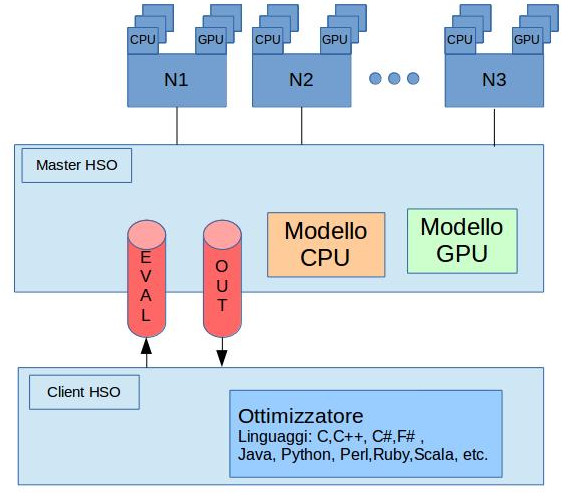
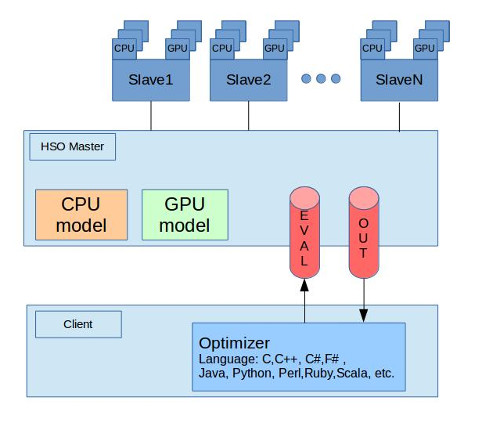
Update README

diff --git a/README.md b/README.md
@@ -1,36 +1,77 @@
 # Heterogeneous Simulation Optimization (HSO)
 
-Le simulazioni vengono utilizzate per modellare ed analizzare dei comportamenti complessi, tali comportamenti si traducono in un modello matematico governato da un insieme parametri.
-A seconda del valore che diamo a questi parametri il modello avrà una certa soluzione, solitamente quello che si vuole è trovare dei parametri che rendano la soluzione _ammissibile_ e quanto più vicina all'_ottimo_.
-
-La tecnica di Simulation Optimizzation ci permette di trovare questi parametri migliori senza esplorare tutto lo spazio dei parametri, ed ha come scopo quello di andare a minimizzare l'utilizzo delle risorse spese andando a massimizzare le informazioni ricavate dalle simulazioni.
-
-**Heterogeneous Simulation Optimizzation (HSO)** è:
-
-* Sviluppato per Simulation Optimizzation.
-* Scritto in C.
-* Piattforma supportata: Linux
-
-HSO supporta l'Heterogeneous computing, cioè sfrutta gli acceleratori disponibili per poter eseguire le simulazioni in maniera efficiente.
-
-Un'altra caratteristica interessante di HSO è quella di poter utilizzare funzioni di ottimizzazione scritte in diversi linguaggi di programmazione tra cui (Python, Java, etc) grazie all'utilizzo della libreria ZeroMQ. 
-
-## Architettura HSO
-
-![Architettura HSO](./assets/architettura.jpg)
-
-La figura mostra i componenti fondamentali di **HSO**.
+The simulation are used to model and analyze complex behaviors. These behaviors are translated into a mathematical model governed by a set of parameters.  
+Usually, we want find some parameters that make the solution of the model admissible and close to the best.
+Simulation optimization is the process of finding the best input variable values from among all possibilities without explicitly evaluating each possibility. This process optimization aims to minimize the resources spent while maximizing the information obtained in a simulation experiment.
 
 
-Il Master HSO non appena viene lanciato fa partire una fase di discovery delle risorse per trovare gli acceleratori disponibili. Una volta riecvute tali informazioni attende dei messaggi da parte della funzione di ottimizzazione.
+**Heterogeneous Simulation Optimization (HSO)** is:
 
+* Developed for Simulation Optimization.
+* Written in C, and use the MPI Library.
+* Supported platform: Linux.
 
-Come si vede dall'immagine la funzione di ottimizzazione comunica con il master HSO attraverso due code (EVAL e OUT), che sono essenzialmente dei socket zeroMQ su cui vengono inviate delle stringhe. Tali stringhe possono essere:
+HSO supports the Heterogeneous Computing, that is exploit the available computational accelerators for run the simulations in the better way.
 
-* stringhe di controllo, usate per settare l'ambiente di esecuzione delle simulazioni 
-* stringhe contenenti la lista dei parameti su cui eseguire le simulazioni
-* stringhe contenti il risultato della computazione
+Another interesting feature of HSO is that you can use optimization function written in different programming language (C, C++, C#, Python, Java, etc.) using the [ZeroMQ](http://www.zeromq.org/) Library.
 
->Le prime due tipologie di stringhe vengono inviate sul socket EVAL dalla funzione di ottimizzazione e utilizzate dal master HSO, mentre l'ultima tipologia di stringhe viene inviata sul socket OUT dal master HSO e utilizzata dalla funzione di ottimizzazione
+## HSO structure
 
-Il master HSO dopo aver ricevuto dopo aver ricevuto le stringhe di controllo ed aver comunicato tali stringhe a tutti i suoi slave, attende la lista dei parametri su cui eseguire le simulazioni. Una volta ottenuta questa lista fa partire la computazione distribuendola sugli slave. Una volta terminata la computazione, il risultato di quest'ultima viene inviato alla funzione di ottimizzazione, che effettuerà le sue considerazioni sull'output ricevuto e a seconda di quest'ultime o terminerà o invierà al master HSO una nuova lista di parametri. 
+<center>![HSO structure](./assets/architettura.jpg)</center>
+
+The figure illustrates the main components of **HSO**. We can see that the optimizer is connected to the HSO master through two queues, which are essentially two ZeroMQ socket. Strings are sent on these sockets, these strings can be of three types:
+
+* Control strings, used to set the simulation execution environment.
+* Strings containing the list of parameters to run the simulations.
+* Strings containing the result of the simulations.
+
+> The first two types of string are sent on the EVAL socket from the optimization function to the HSO Master, while the last type is sent on the OUT socket form the HSO Master to the optimization function
+
+### HSO workflow
+
+In the initialization phase, the coordinated execution between the HSO Master (and Slaves) and  the Optimization function follows this pattern:
+
+1. When the HSO Master starts, it waits for the Slaves to send the number of CPUs and Computational Accelerators available (for the moment we consider only the GPUs).
+2. The Slave sent this information and wait for simulation model informations from the HSO Master.
+3. The HSO Master waits for the Optimization function to send strings.
+4. When the Optimization function starts, send to the Master the address of OUT socket, the CPU model and the GPU model.
+5. The HSO master sets the simulation execution environment, sends the information received to the slaves, and waits the list of parameters from the Optimization function.
+6. The Slave sets the CPU model and the GPU model and waits for the parameters of simulations from HSO master.
+
+<center>![Scambio messaggi fase iniziale](./assets/HSO_init.png)</center>
+
+After the initialization phase, the coordinated execution between the HSO Master (and Slaves) and  the Optimization function follows this pattern:
+
+1. The Optimization function send the list of parameters to the Master HSO.
+2. The HSO Master, received the list, divides it and starts running the simulations by distributing them to themselves and to the slaves. After finishing his computation part waits for the slave result.
+3. The Slave, received the list of parameters, starts running the simulations. After finishing his simulations send the result to the HSO Master. 
+4. The HSO Master collects the slave's output, concatenates his, and sends everything to the Optimization function.
+5. The optimization function, received the output, makes its own consideration and decides whether to terminate or send a new parameter list.
+6. After finishing the computation for an Optimization function,the HSO Master waits for a new Optimization function to be launched, and the process just described will start again
+
+<center>![scambio messaggi computazione](./assets/HSO_com.png)</center>
+
+## HSO installation and usage
+
+Before installing make sure you have the following requirements:
+
+* autoreconf 2.69 or higher 
+* MPI
+* ZeroMQ, for installation guide see [ZeroMQ - Get the software](http://zeromq.org/intro:get-the-software)
+
+For installing HSO:
+
+1. Download the HSO github repository 
+>git clone https://github.com/isislab-unisa/hso.git
+
+2. Install HSO:
+> cd "path to HSO folder"  
+> chmod +x autogen.sh  
+> ./autogen.sh  
+> ./configure   
+> make  
+> cd src/  
+> chmod +x hso
+
+For usage of HSO see the [Example: Zombie](./example/Zombie/README.md)
+

diff --git a/example/Zombie/README.md b/example/Zombie/README.md
@@ -1,0 +1,31 @@
+#Example: Zombie
+
+The goal of this tutorial is show the usage of the Heterogeneous Simulation Optimization (**HSO**).
+
+In this example we have:
+
+1. An Optimizer written in Python;
+2. A Netlogo simulation for Zombie model.
+3. A FlameGPU simulation for Zombie model.
+
+>Note: The simulations are not totally equivalent but both follow the Zombie model specification described below.
+
+##Model detail
+The model has two kinds of agent:
+
+* Zombies
+* Humans.
+
+Zombies chase the Humans, seeking to infect them, while Humans attempt to evade Zombies. When a Zombie is close enough to a Human, that Human is infected and becomes a Zombie.
+During a typical run all the Humans will eventually become Zombies.
+
+These agents are located in a two dimensional continuous space where each agent has a x and y coordinate expressed as a floating point number. Movement is performed in the continuous space.
+
+
+The model is characterized by:
+
+* human_count, the number of people involved in the simulation process;
+* zombie_count, the intial number (at time 0 of the simulation) of infected people;
+* human_step_size, the human velocity;
+* zombie_step_size, the zombie velocity.
+

diff --git a/example/README.md b/example/README.md
@@ -1,0 +1,5 @@
+# List of Example
+
+Example:
+
+1. Zombie, for more information see [Zombie Tutorial](./Zombie/README.md)
